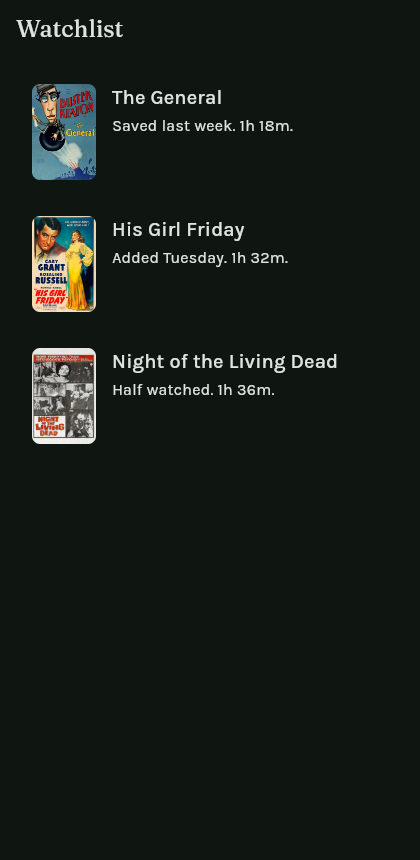
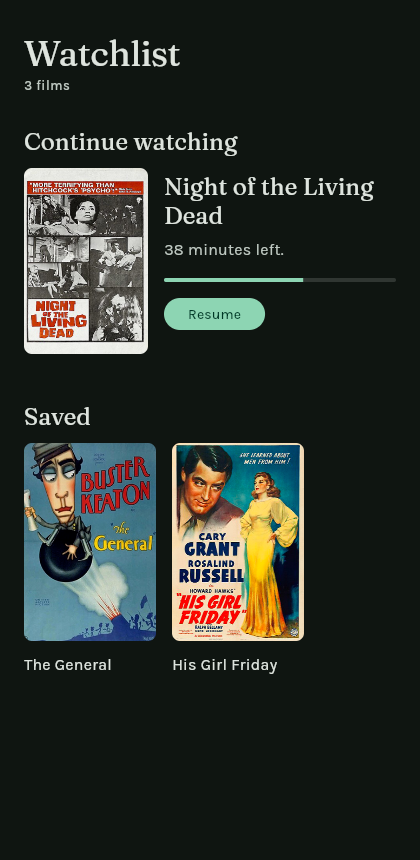
feat(example): give the after screen a point of view

Changed region(s): [[0.031, 0.0, 0.9286, 0.786], [0.4024, 0.514, 0.7429, 0.786]]

diff --git a/examples/watchlist/lib/screens/library_after.dart b/examples/watchlist/lib/screens/library_after.dart
@@ -1,6 +1,10 @@
 // The same screen built against the skill. The detector reports nothing here,
-// on any target. Every colour and size comes from the theme, which comes from
-// DESIGN.md.
+// on any target, and every colour and size comes from the theme.
+//
+// Passing the rules is the floor, not the design. What carries this screen is
+// the artwork leading, a serif for titles against a grotesque for everything
+// else, and a rhythm that groups rather than spaces evenly: one resumable film
+// given room, the rest as a rail you flick through.
 import 'package:flutter/material.dart';
 
 import '../models.dart';
@@ -13,25 +17,42 @@ class LibraryAfter extends StatelessWidget {
   @override
   Widget build(BuildContext context) {
     final theme = Theme.of(context);
+    if (entries.isEmpty) return const Scaffold(body: SafeArea(child: _Empty()));
+
+    final resuming = entries.where((e) => e.progress != null).toList();
+    final saved = entries.where((e) => e.progress == null).toList();
 
     return Scaffold(
-      appBar: AppBar(title: Text('Watchlist', style: theme.textTheme.titleLarge)),
       body: SafeArea(
         child: LayoutBuilder(
           builder: (context, constraints) {
             // Branching on the space this widget was given, never on the
             // window size, so split view and foldables work for free.
             final wide = constraints.maxWidth >= 600;
-            return switch (entries.isEmpty) {
-              true => const _Empty(),
-              false => ListView.separated(
-                  padding: const EdgeInsets.fromLTRB(20, 16, 20, 48),
-                  itemCount: entries.length,
-                  separatorBuilder: (_, __) => const SizedBox(height: 12),
-                  itemBuilder: (context, i) =>
-                      _EntryRow(entry: entries[i], wide: wide),
+            return ListView(
+              padding: EdgeInsets.fromLTRB(wide ? 48 : 24, 32, wide ? 48 : 24, 48),
+              children: [
+                Text('Watchlist', style: theme.textTheme.displaySmall),
+                const SizedBox(height: 4),
+                Text(
+                  '${entries.length} films',
+                  style: theme.textTheme.labelSmall
+                      ?.copyWith(color: theme.colorScheme.onSurfaceVariant),
                 ),
-            };
+                if (resuming.isNotEmpty) ...[
+                  const SizedBox(height: 32),
+                  _SectionHeading('Continue watching'),
+                  const SizedBox(height: 12),
+                  _ResumeCard(entry: resuming.first),
+                ],
+                if (saved.isNotEmpty) ...[
+                  const SizedBox(height: 48),
+                  _SectionHeading('Saved'),
+                  const SizedBox(height: 12),
+                  _SavedRail(entries: saved),
+                ],
+              ],
+            );
           },
         ),
       ),
@@ -39,11 +60,21 @@ class LibraryAfter extends StatelessWidget {
   }
 }
 
-class _EntryRow extends StatelessWidget {
-  const _EntryRow({required this.entry, required this.wide});
+class _SectionHeading extends StatelessWidget {
+  const _SectionHeading(this.label);
+
+  final String label;
+
+  @override
+  Widget build(BuildContext context) =>
+      Text(label, style: Theme.of(context).textTheme.titleLarge);
+}
+
+/// The one film you are part-way through, given the room to be picked up.
+class _ResumeCard extends StatelessWidget {
+  const _ResumeCard({required this.entry});
 
   final Entry entry;
-  final bool wide;
 
   @override
   Widget build(BuildContext context) {
@@ -51,60 +82,139 @@ class _EntryRow extends StatelessWidget {
 
     return Semantics(
       button: true,
-      label: 'Open ${entry.title}',
+      label: 'Resume ${entry.title}',
       child: InkWell(
         onTap: () {},
         borderRadius: BorderRadius.circular(12),
-        child: Padding(
-          padding: const EdgeInsets.all(12),
-          child: Row(
-            crossAxisAlignment: CrossAxisAlignment.start,
-            children: [
-              ClipRRect(
-                borderRadius: BorderRadius.circular(8),
-                child: Image.asset(
-                  entry.poster,
-                  width: 64,
-                  height: 96,
-                  // Decoded at the size it is drawn, not the size it ships at.
-                  cacheWidth: 128,
-                  fit: BoxFit.cover,
-                  errorBuilder: (context, error, stack) => ColoredBox(
-                    color: theme.colorScheme.surfaceContainerHighest,
-                    child: const SizedBox(width: 64, height: 96),
-                  ),
-                ),
-              ),
-              const SizedBox(width: 16),
-              Expanded(
+        child: Row(
+          crossAxisAlignment: CrossAxisAlignment.start,
+          children: [
+            _Poster(entry: entry, width: 124),
+            const SizedBox(width: 16),
+            Expanded(
+              child: Padding(
+                padding: const EdgeInsets.symmetric(vertical: 4),
                 child: Column(
                   crossAxisAlignment: CrossAxisAlignment.start,
                   children: [
                     Text(
                       entry.title,
-                      style: theme.textTheme.titleMedium,
+                      style: theme.textTheme.titleLarge,
                       maxLines: 2,
                       overflow: TextOverflow.ellipsis,
                     ),
-                    const SizedBox(height: 4),
+                    const SizedBox(height: 8),
                     Text(
                       entry.note,
-                      style: theme.textTheme.bodyMedium,
-                      maxLines: wide ? 3 : 2,
+                      style: theme.textTheme.bodyMedium
+                          ?.copyWith(color: theme.colorScheme.onSurfaceVariant),
+                      maxLines: 2,
                       overflow: TextOverflow.ellipsis,
+                    ),
+                    const SizedBox(height: 16),
+                    ClipRRect(
+                      borderRadius: BorderRadius.circular(4),
+                      child: LinearProgressIndicator(
+                        value: entry.progress,
+                        minHeight: 4,
+                        backgroundColor: theme.colorScheme.surfaceContainerHighest,
+                      ),
+                    ),
+                    const SizedBox(height: 16),
+                    FilledButton(
+                      onPressed: () {},
+                      child: const Text('Resume'),
                     ),
                   ],
                 ),
               ),
-            ],
-          ),
+            ),
+          ],
         ),
       ),
     );
   }
 }
 
-/// The screen a new user sees first, so it says what goes here and how.
+/// Everything else, as artwork you flick through rather than a list to read.
+class _SavedRail extends StatelessWidget {
+  const _SavedRail({required this.entries});
+
+  final List<Entry> entries;
+
+  @override
+  Widget build(BuildContext context) {
+    final theme = Theme.of(context);
+
+    return SizedBox(
+      height: 268,
+      child: ListView.separated(
+        scrollDirection: Axis.horizontal,
+        clipBehavior: Clip.none,
+        itemCount: entries.length,
+        separatorBuilder: (context, index) => const SizedBox(width: 16),
+        itemBuilder: (context, i) {
+          final entry = entries[i];
+          return Semantics(
+            button: true,
+            label: 'Open ${entry.title}',
+            child: InkWell(
+              onTap: () {},
+              borderRadius: BorderRadius.circular(12),
+              child: SizedBox(
+                width: 132,
+                child: Column(
+                  crossAxisAlignment: CrossAxisAlignment.start,
+                  children: [
+                    _Poster(entry: entry, width: 132),
+                    const SizedBox(height: 12),
+                    Text(
+                      entry.title,
+                      style: theme.textTheme.bodyMedium,
+                      maxLines: 2,
+                      overflow: TextOverflow.ellipsis,
+                    ),
+                  ],
+                ),
+              ),
+            ),
+          );
+        },
+      ),
+    );
+  }
+}
+
+/// Poster art at a real 2:3, decoded at the size it is drawn.
+class _Poster extends StatelessWidget {
+  const _Poster({required this.entry, required this.width});
+
+  final Entry entry;
+  final double width;
+
+  @override
+  Widget build(BuildContext context) {
+    final theme = Theme.of(context);
+    final height = width * 3 / 2;
+
+    return ClipRRect(
+      borderRadius: BorderRadius.circular(8),
+      child: Image.asset(
+        entry.poster,
+        width: width,
+        height: height,
+        fit: BoxFit.cover,
+        cacheWidth: (width * 2).round(),
+        errorBuilder: (context, error, stack) => ColoredBox(
+          color: theme.colorScheme.surfaceContainerHighest,
+          child: SizedBox(width: width, height: height),
+        ),
+      ),
+    );
+  }
+}
+
+/// The screen a new user sees first, so it says what goes there and how.
 class _Empty extends StatelessWidget {
   const _Empty();
 
@@ -122,7 +232,8 @@ class _Empty extends StatelessWidget {
             Text(
               'Films you save turn up here, ready for the evening.',
               textAlign: TextAlign.center,
-              style: theme.textTheme.bodyMedium,
+              style: theme.textTheme.bodyMedium
+                  ?.copyWith(color: theme.colorScheme.onSurfaceVariant),
             ),
             const SizedBox(height: 32),
             FilledButton(

diff --git a/examples/watchlist/lib/models.dart b/examples/watchlist/lib/models.dart
@@ -1,8 +1,16 @@
 /// The little bit of domain the screens read from.
 class Entry {
-  const Entry({required this.title, required this.note, required this.poster});
+  const Entry({
+    required this.title,
+    required this.note,
+    required this.poster,
+    this.progress,
+  });
 
   final String title;
   final String note;
   final String poster;
+
+  /// How far in, from 0 to 1. Null means never started.
+  final double? progress;
 }

diff --git a/examples/watchlist/lib/main.dart b/examples/watchlist/lib/main.dart
@@ -18,8 +18,9 @@ const _entries = [
   ),
   Entry(
     title: 'Night of the Living Dead',
-    note: 'Half watched. 1h 36m.',
+    note: '38 minutes left.',
     poster: 'assets/posters/night-of-the-living-dead.jpg',
+    progress: 0.6,
   ),
 ];
 

diff --git a/examples/watchlist/tool/screenshots.dart b/examples/watchlist/tool/screenshots.dart
@@ -23,8 +23,9 @@ const _entries = [
   ),
   Entry(
     title: 'Night of the Living Dead',
-    note: 'Half watched. 1h 36m.',
+    note: '38 minutes left.',
     poster: 'assets/posters/night-of-the-living-dead.jpg',
+    progress: 0.6,
   ),
 ];
 

diff --git a/examples/watchlist/README.md b/examples/watchlist/README.md
@@ -47,17 +47,23 @@ Fonts and posters are committed, so it runs as it stands. Both faces are under t
 
 ## What the after version does differently
 
-Each of these maps to a reference playbook in the skill.
+Passing the rules is the floor. What carries the screen is above it.
 
-Colour and type come from `Theme.of(context)`, never from a literal. The values live in `lib/theme.dart`, and every one of them is declared in `DESIGN.md`, so the `design-system-*` rules check the app against its own documented system. See `theme.md`.
+**The artwork leads.** One resumable film gets room, a progress line and a button; everything else is a rail of posters you flick through. A uniform list of the same row repeated would have passed every rule and decided nothing.
 
-Layout branches on `LayoutBuilder` constraints rather than `MediaQuery` size, so split view and foldables work without a special case. See `adapt.md`.
+**Two faces doing different jobs.** Fraunces carries the headings and the film title, Karla carries meta and labels. The contrast is what stops it reading like a settings screen.
+
+**Rhythm, not even spacing.** 4 between a heading and its count, 12 inside a group, 32 and 48 between sections. Even gaps are what make a screen feel unconsidered.
+
+The mechanics underneath, each mapping to a playbook:
+
+Colour and type come from `Theme.of(context)`, never a literal. The values live in `lib/theme.dart`, and every one is declared in `DESIGN.md`, so the `design-system-*` rules check the app against its own documented system. See `theme.md`.
+
+Layout branches on `LayoutBuilder` constraints, so split view and foldables work without a special case. See `adapt.md`.
 
 The empty state says what goes there and how to put the first one in, because it is the screen a new user sees first. See `harden.md`.
 
-Images carry `cacheWidth` so a 64-pixel poster is not decoded at full resolution, and an `errorBuilder` so a failed fetch is a placeholder instead of a broken box.
-
-Tap targets clear 48 logical pixels, the row is wrapped in `Semantics` with a real label, and text has `maxLines` with an ellipsis so a long title does not overflow.
+Posters carry `cacheWidth` so a 132-pixel image is not decoded at full size, and an `errorBuilder` so a failed load is a placeholder. Tap targets clear 48 logical pixels, rows are wrapped in `Semantics` with real labels, and every text has `maxLines` with an ellipsis.
 
 ## What the TV version does differently
 
